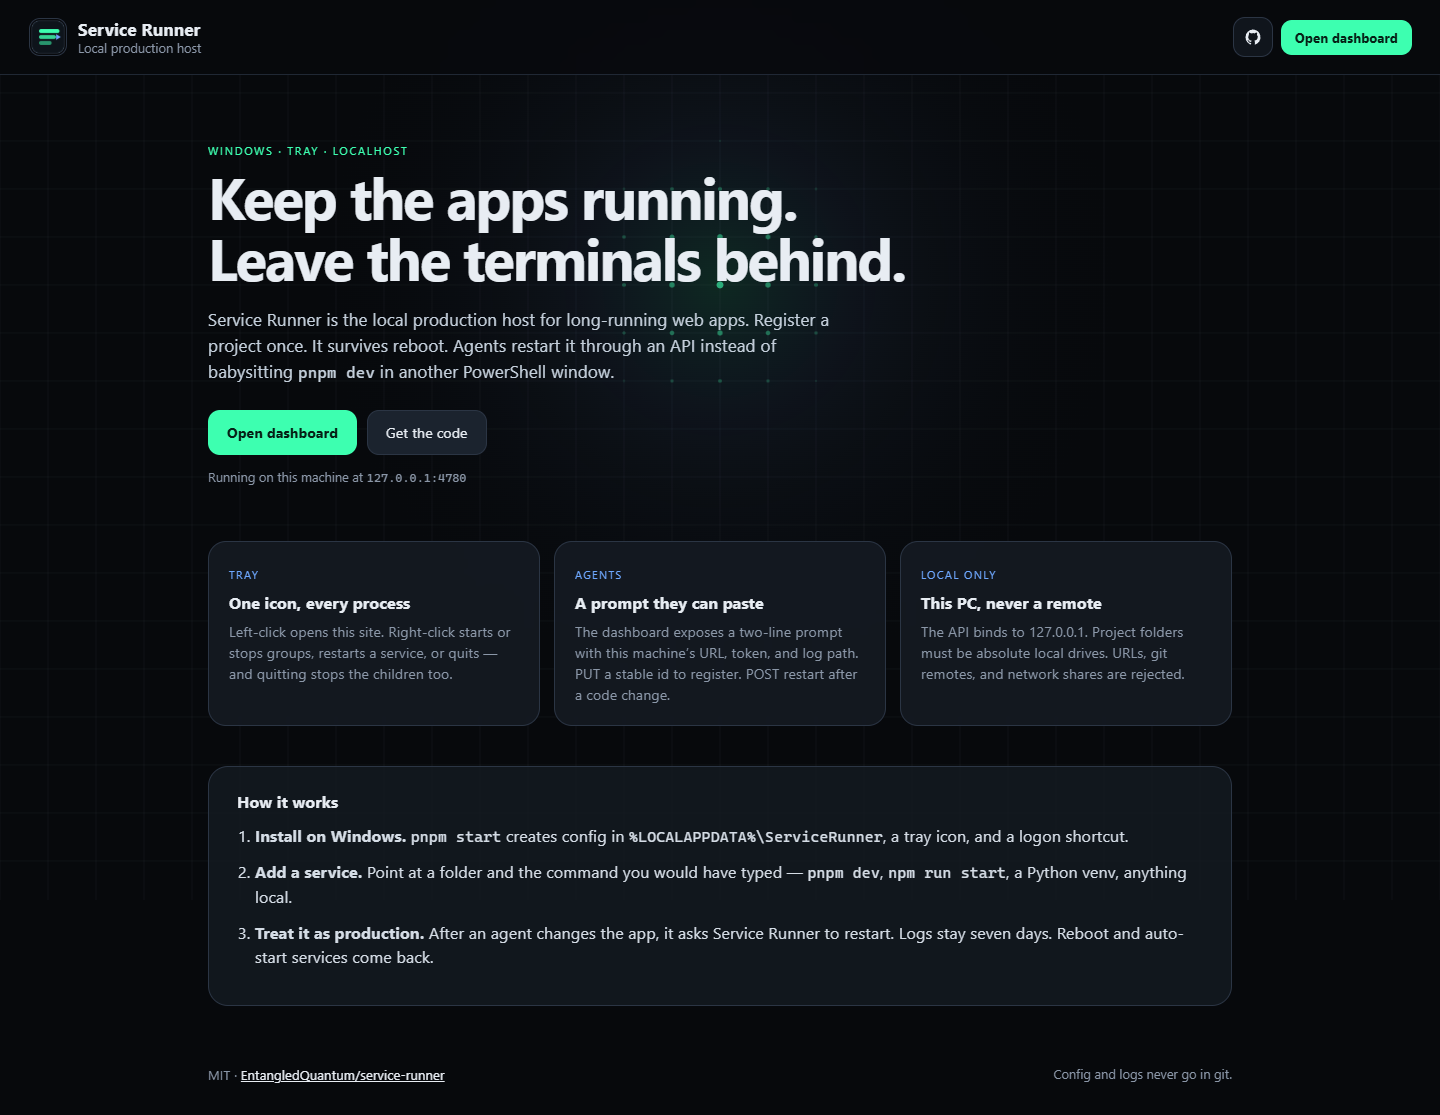
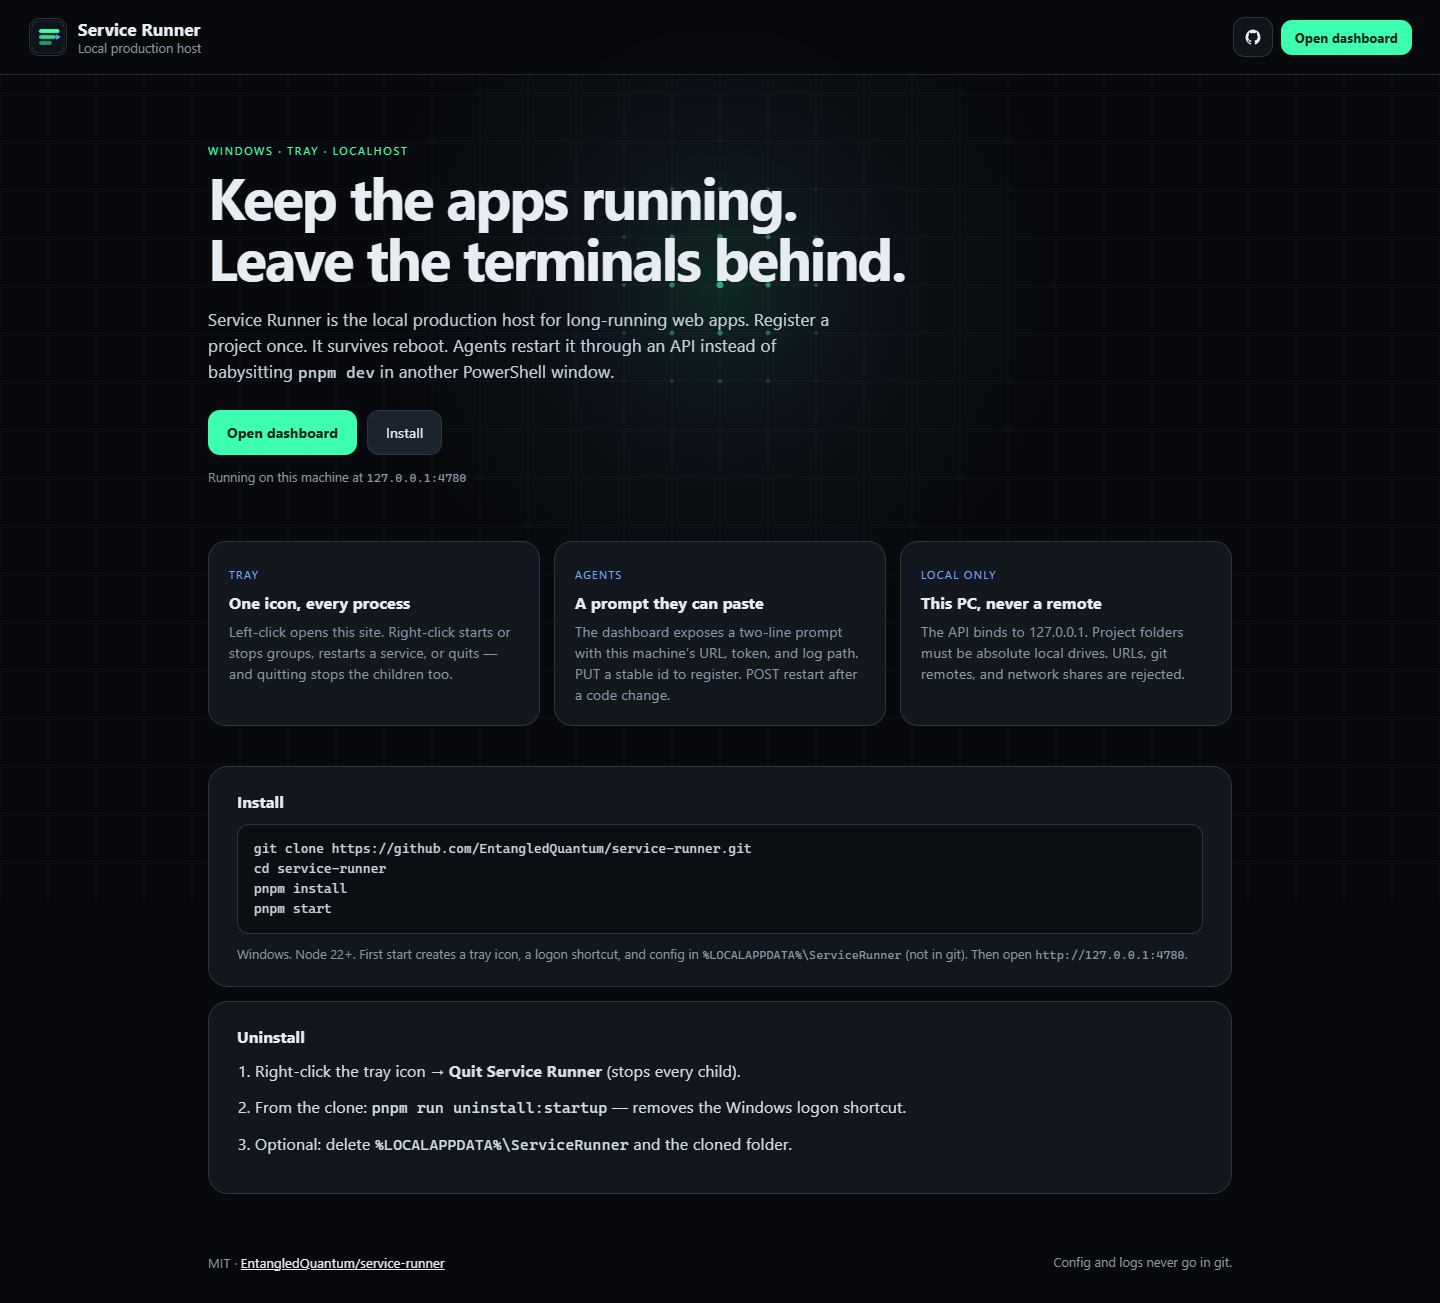
Fix tray crash on right-click; document install and uninstall

diff --git a/web/index.html b/web/index.html
@@ -38,7 +38,7 @@
       </p>
       <div class="hero-actions">
         <a class="btn primary lg local-only" id="btn-hero-dashboard" href="dashboard.html" hidden>Open dashboard</a>
-        <a class="btn lg" href="https://github.com/EntangledQuantum/service-runner#install-windows">Get the code</a>
+        <a class="btn lg" href="#install">Install</a>
       </div>
       <p class="muted local-only" id="local-hint" hidden>Running on this machine at <code id="local-origin"></code></p>
       <p class="muted gh-only" id="gh-hint">This page is the public site. The dashboard and process supervisor only run on your Windows PC.</p>
@@ -62,12 +62,21 @@
       </article>
     </section>
 
-    <section class="steps">
-      <h3>How it works</h3>
+    <section class="steps" id="install">
+      <h3>Install</h3>
+      <pre class="install-cmd">git clone https://github.com/EntangledQuantum/service-runner.git
+cd service-runner
+pnpm install
+pnpm start</pre>
+      <p class="muted">Windows. Node 22+. First start creates a tray icon, a logon shortcut, and config in <code>%LOCALAPPDATA%\ServiceRunner</code> (not in git). Then open <code>http://127.0.0.1:4780</code>.</p>
+    </section>
+
+    <section class="steps" id="uninstall">
+      <h3>Uninstall</h3>
       <ol>
-        <li><strong>Install on Windows.</strong> <code>pnpm start</code> creates config in <code>%LOCALAPPDATA%\ServiceRunner</code>, a tray icon, and a logon shortcut.</li>
-        <li><strong>Add a service.</strong> Point at a folder and the command you would have typed — <code>pnpm dev</code>, <code>npm run start</code>, a Python venv, anything local.</li>
-        <li><strong>Treat it as production.</strong> After an agent changes the app, it asks Service Runner to restart. Logs stay seven days. Reboot and auto-start services come back.</li>
+        <li>Right-click the tray icon → <strong>Quit Service Runner</strong> (stops every child).</li>
+        <li>From the clone: <code>pnpm run uninstall:startup</code> — removes the Windows logon shortcut.</li>
+        <li>Optional: delete <code>%LOCALAPPDATA%\ServiceRunner</code> and the cloned folder.</li>
       </ol>
     </section>
   </main>

diff --git a/web/styles.css b/web/styles.css
@@ -163,6 +163,19 @@ h3 { margin: 0 0 8px; font-size: 16px; }
   border: 1px solid var(--border);
   border-radius: 20px;
   padding: 24px 28px;
+  margin-top: 14px;
+}
+.install-cmd {
+  margin: 12px 0 12px;
+  padding: 14px 16px;
+  background: #0b0e12;
+  border: 1px solid var(--border);
+  border-radius: 12px;
+  font-family: var(--mono);
+  font-size: 13px;
+  line-height: 1.55;
+  color: #c9d4e0;
+  overflow-x: auto;
 }
 .steps ol { margin: 12px 0 0; padding: 0 0 0 18px; color: #d5dde6; }
 .steps li { margin: 0 0 12px; line-height: 1.5; }

diff --git a/README.md b/README.md
@@ -1,137 +1,29 @@
 # Service Runner
 
-Windows tray supervisor for the local web apps you (and your coding agents) keep running with `pnpm dev`, `npm run dev`, `python …`, and friends.
+Windows tray supervisor for local long-running web apps. Open source under the **[MIT License](LICENSE)**.
 
-One process. One tray icon. One site. No extra PowerShell windows left open.
-
-Service Runner is the **local production host** for long-running apps on this machine. Agents add a project once, you reboot, it comes back. After they change code, they restart it through the API instead of babysitting a terminal.
-
-Public landing page: [entangledquantum.github.io/service-runner](https://entangledquantum.github.io/service-runner/)
-
-On GitHub Pages you get the product site. **Open dashboard** only appears when the same site is served from `127.0.0.1` next to the tray app. Click the Service Runner mark (top left) anytime to come back home.
+**Site → [entangledquantum.github.io/service-runner](https://entangledquantum.github.io/service-runner/)**  
+Install, uninstall, how it works, and the live UI are all there. This repo is the source.
 
 ![Landing](docs/screenshots/landing.png)
-
-![Dashboard](docs/screenshots/dashboard.png)
-
-## What you get
-
-- A **tray icon**. Left-click opens the home page at `http://127.0.0.1:4780`. Right-click opens the dashboard, starts/stops groups and services, stops everything, or quits Service Runner (which stops every child too).
-- A **home page** that explains the product (also published on GitHub Pages) and, locally, a button into the dashboard.
-- A **dashboard** with a status panel first (running count, memory, CPU, uptime), then services, then the agent prompt at the bottom.
-- A **local HTTP API** so any agent can register an app with a stable id, update it, and restart it.
-- **Logs** for the last 7 days (configurable), stored outside the git repo.
-- **Start at Windows logon**, then auto-start every service that has that flag on.
-
-It only runs programs that already live on this PC. URLs, git remotes, and network shares are rejected.
 
 ## Install (Windows)
 
 ```powershell
 git clone https://github.com/EntangledQuantum/service-runner.git
 cd service-runner
-pnpm install          # or npm install
-pnpm run make-icon
-pnpm start            # tray + control panel + logon shortcut
+pnpm install
+pnpm start
 ```
 
-Or run `scripts\install.ps1`.
+Tray icon + [http://127.0.0.1:4780](http://127.0.0.1:4780). Config lives in `%LOCALAPPDATA%\ServiceRunner` and is never committed.
 
-The first launch:
+## Uninstall
 
-1. Creates `%LOCALAPPDATA%\ServiceRunner\config.json` if it is missing
-2. Puts a shortcut in your Startup folder so it returns after reboot
-3. Shows a tray icon and opens the home page. Open dashboard from there.
-
-Runtime files (**not in git**, never commit them):
-
-| What | Where |
-| --- | --- |
-| Config (services, groups, token, retention) | `%LOCALAPPDATA%\ServiceRunner\config.json` |
-| Per-service logs | `%LOCALAPPDATA%\ServiceRunner\logs\<id>\YYYY-MM-DD.log` |
-| Hidden launcher | `%LOCALAPPDATA%\ServiceRunner\launch.vbs` |
-
-## Agent prompt
-
-The dashboard (below the service list) shows a two-to-three line prompt that already contains **this machine’s URL, token, and log path**. Copy it. Hand it to an agent working in a project folder.
-
-Typical shape (values change with your port, token, and retention):
-
-```
-Service Runner is the local production host for long-running apps on this Windows machine (http://127.0.0.1:4780). …
-Add or update with PUT http://127.0.0.1:4780/api/v1/services/<stable-id> JSON {"name":"…","cwd":"<absolute local path>","command":"pnpm dev","autoStart":true} and header Authorization: Bearer <token>. Restart after changes: POST …/restart.
-Local Windows paths only. Logs: %LOCALAPPDATA%\ServiceRunner\logs\<id>\ (last 7 days).
-```
-
-![Add a service](docs/screenshots/add-service.png)
-
-## API
-
-All API routes bind to **127.0.0.1 only**. Send `Authorization: Bearer <token>` (the token is in the prompt and in Settings).
-
-| Method | Path | Purpose |
-| --- | --- | --- |
-| `PUT` | `/api/v1/services/:id` | Create or update. Unique id is yours to choose (`life-os`, `focusspace`, …). Updating a running service restarts it when cwd/command/env change. |
-| `POST` | `/api/v1/services/:id/restart` | Restart this app after a code change |
-| `POST` | `/api/v1/services/:id/start` | Start |
-| `POST` | `/api/v1/services/:id/stop` | Stop |
-| `GET` | `/api/v1/services` | List services + groups |
-| `GET` | `/api/v1/services/:id/logs` | Tail logs (`?date=YYYY-MM-DD&tail=400`) |
-| `POST` | `/api/v1/groups` | Create a group |
-| `POST` | `/api/v1/groups/:id/start` | Start every service in the group |
-| `POST` | `/api/v1/groups/:id/stop` | Stop the group |
-| `GET` | `/api/v1/prompt` | The live agent prompt + example payload |
-| `GET` | `/api/v1/stats` | Running counts, uptime, CPU, memory |
-| `POST` | `/api/v1/stop-all` | Stop every service |
-| `POST` | `/api/v1/shutdown` | Stop every service and exit Service Runner |
-
-Example — register a local app (PowerShell):
-
-```powershell
-$token = "<paste from the control panel>"
-Invoke-RestMethod -Method PUT `
-  -Uri http://127.0.0.1:4780/api/v1/services/life-os `
-  -Headers @{ Authorization = "Bearer $token" } `
-  -ContentType "application/json" `
-  -Body ({
-    name = "Life OS"
-    cwd = "E:\My_Project\Life_OS"
-    command = "pnpm dev"
-    autoStart = $true
-  } | ConvertTo-Json)
-```
-
-`cwd` must be an absolute local directory (`E:\…`). `command` is whatever you would have typed in a terminal (`pnpm dev`, `npm run start`, `python -m uvicorn app:app`). Optional fields: `args`, `env`, `venv` (Python virtualenv path — its `Scripts` dir is prepended to `PATH`), `pathPrepend`, `groupId`, `restartOnCrash`.
-
-![Logs](docs/screenshots/logs.png)
-
-## Tray
-
-| Action | Result |
-| --- | --- |
-| Left-click | Open the home page |
-| Right-click → Open dashboard | Control panel |
-| Right-click → Groups | Start / stop a whole group |
-| Right-click → a service | Start / stop / restart |
-| Stop all services | Children die; Service Runner stays |
-| Quit Service Runner | Stop everything and exit |
-
-## Settings
-
-- Log retention (default **7 days**)
-- Start Service Runner at Windows logon
-- Open the site in a browser on launch
-
-## Development
-
-```powershell
-pnpm test          # local-path + id guards
-pnpm dev           # watch mode
-pnpm run screenshot
-```
-
-`pnpm run screenshot` talks to a running instance and writes `docs/screenshots/*.png` via Playwright (Edge).
+1. Tray → **Quit Service Runner** (stops every child)
+2. `pnpm run uninstall:startup` — removes the Windows logon shortcut
+3. Optional: delete `%LOCALAPPDATA%\ServiceRunner` and the cloned folder
 
 ## License
 
-MIT
+[MIT](LICENSE) © 2026 EntangledQuantum
